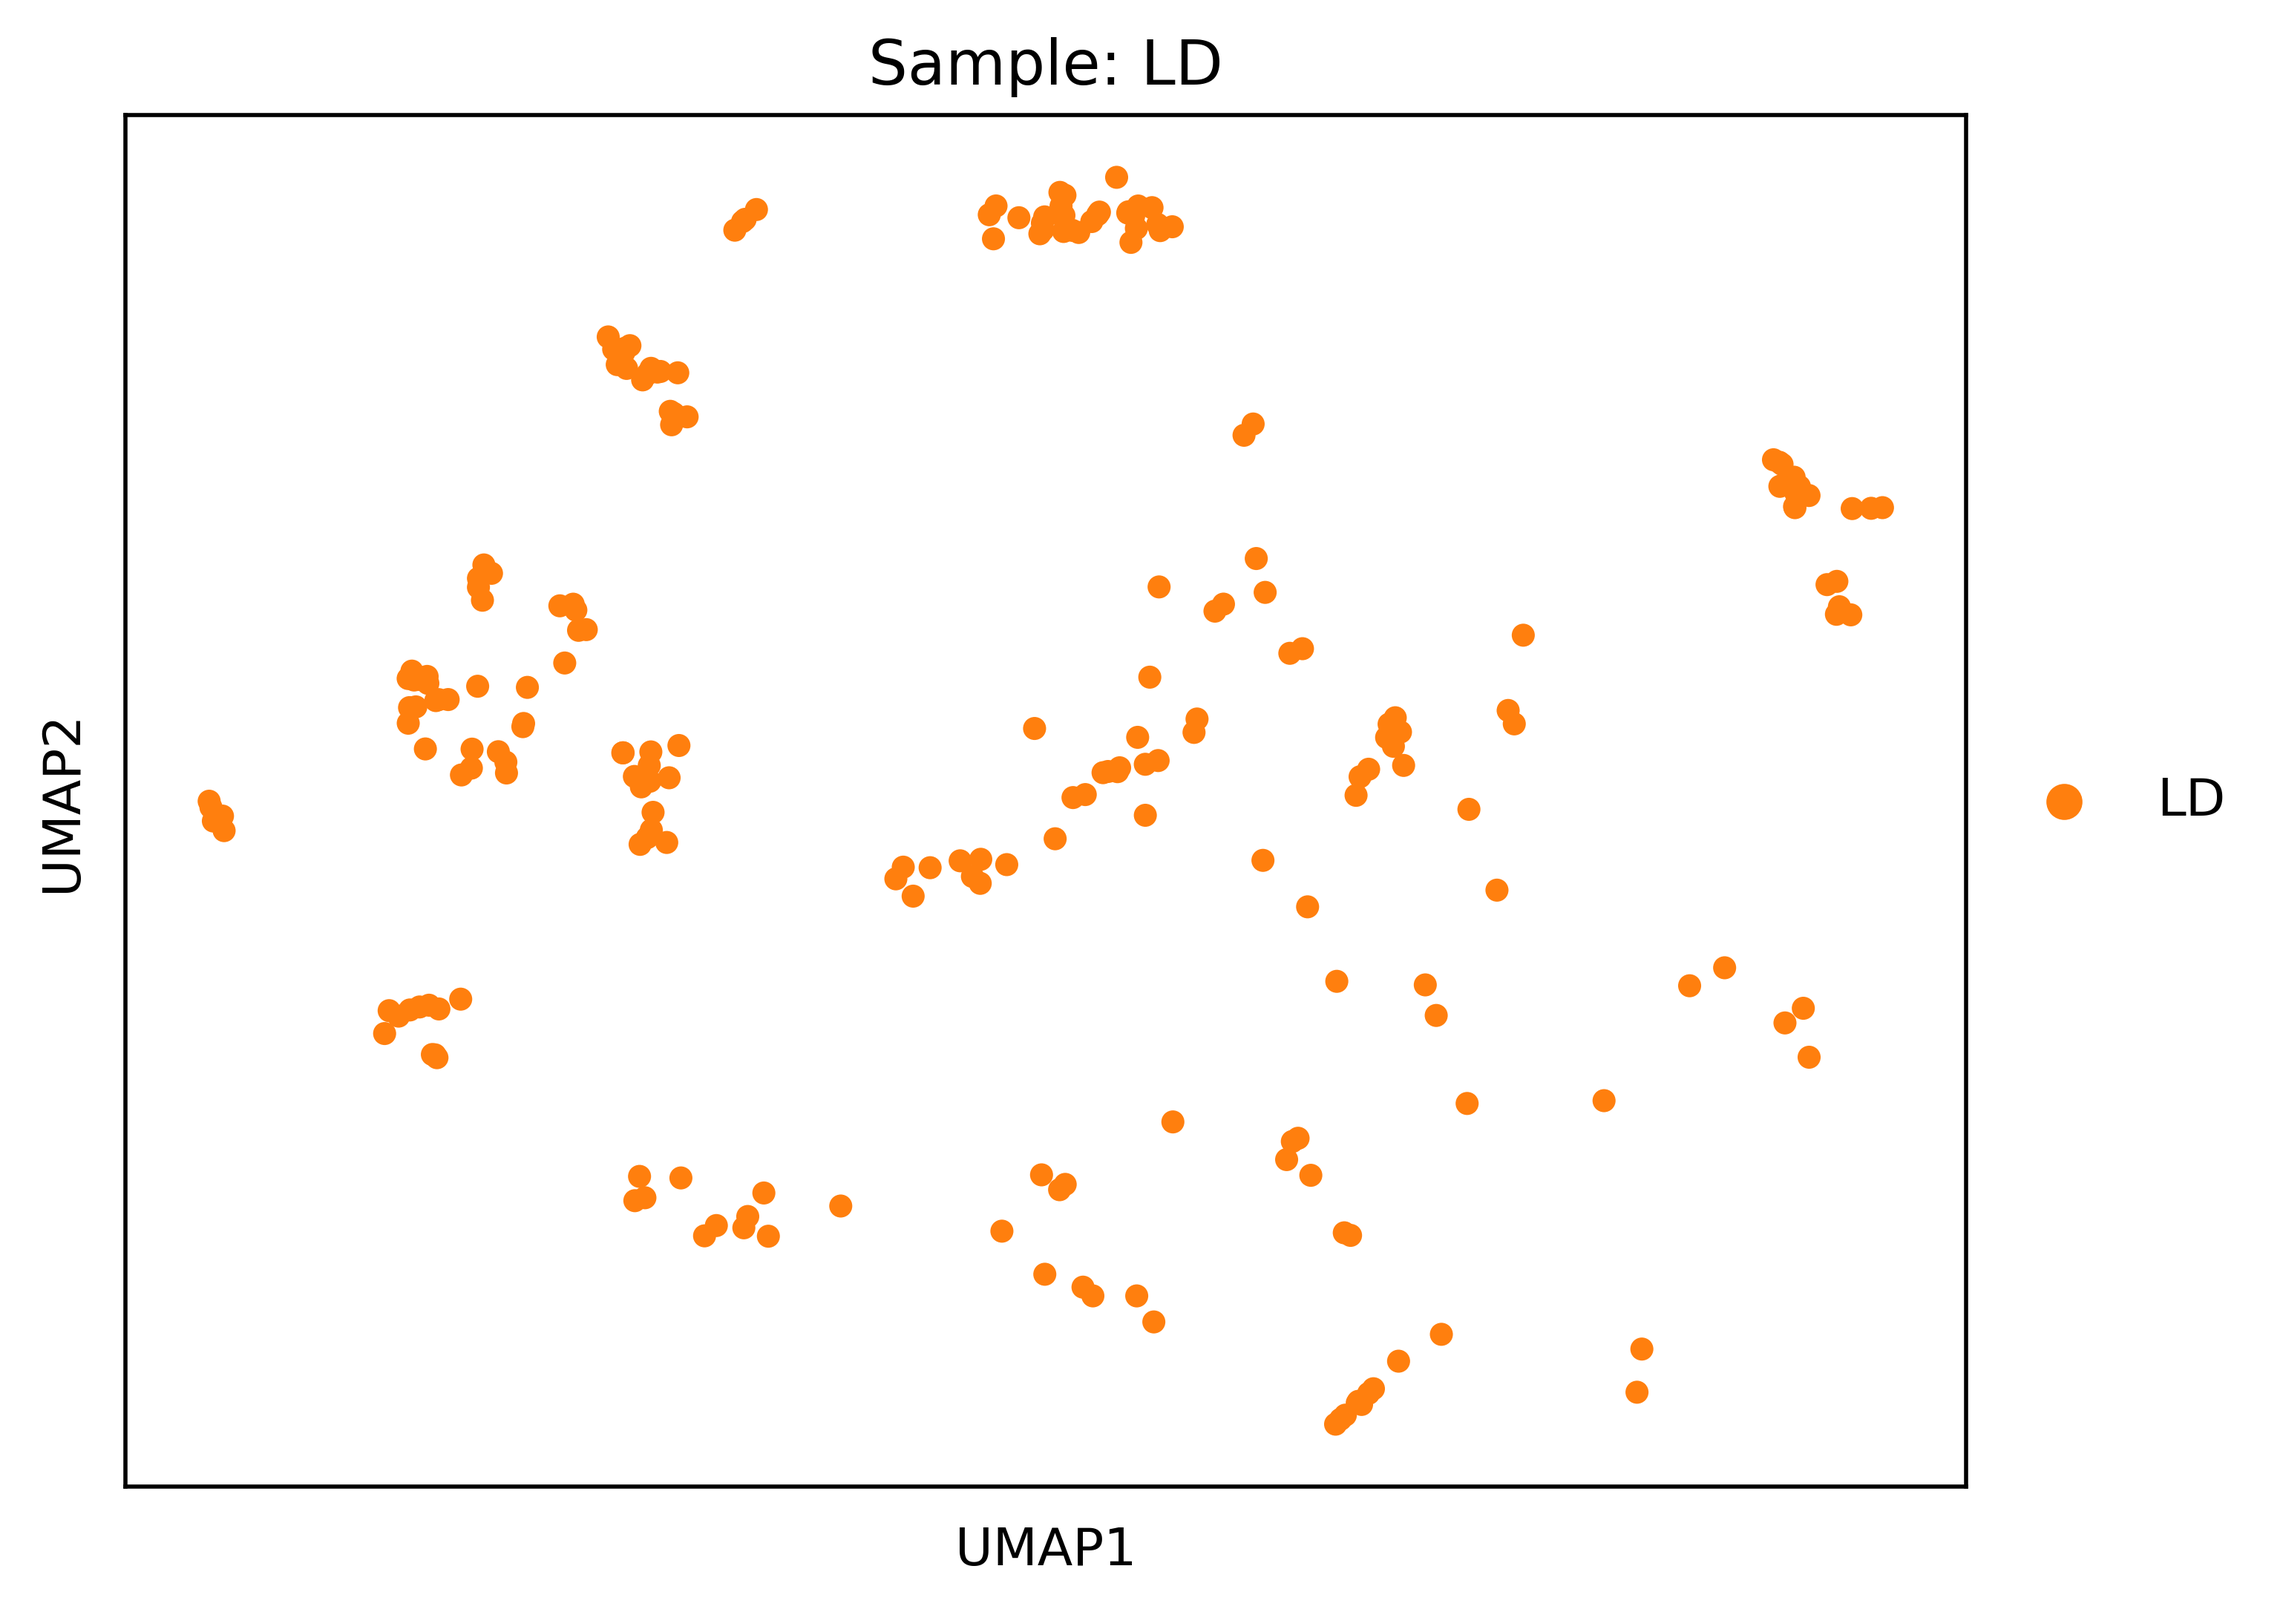
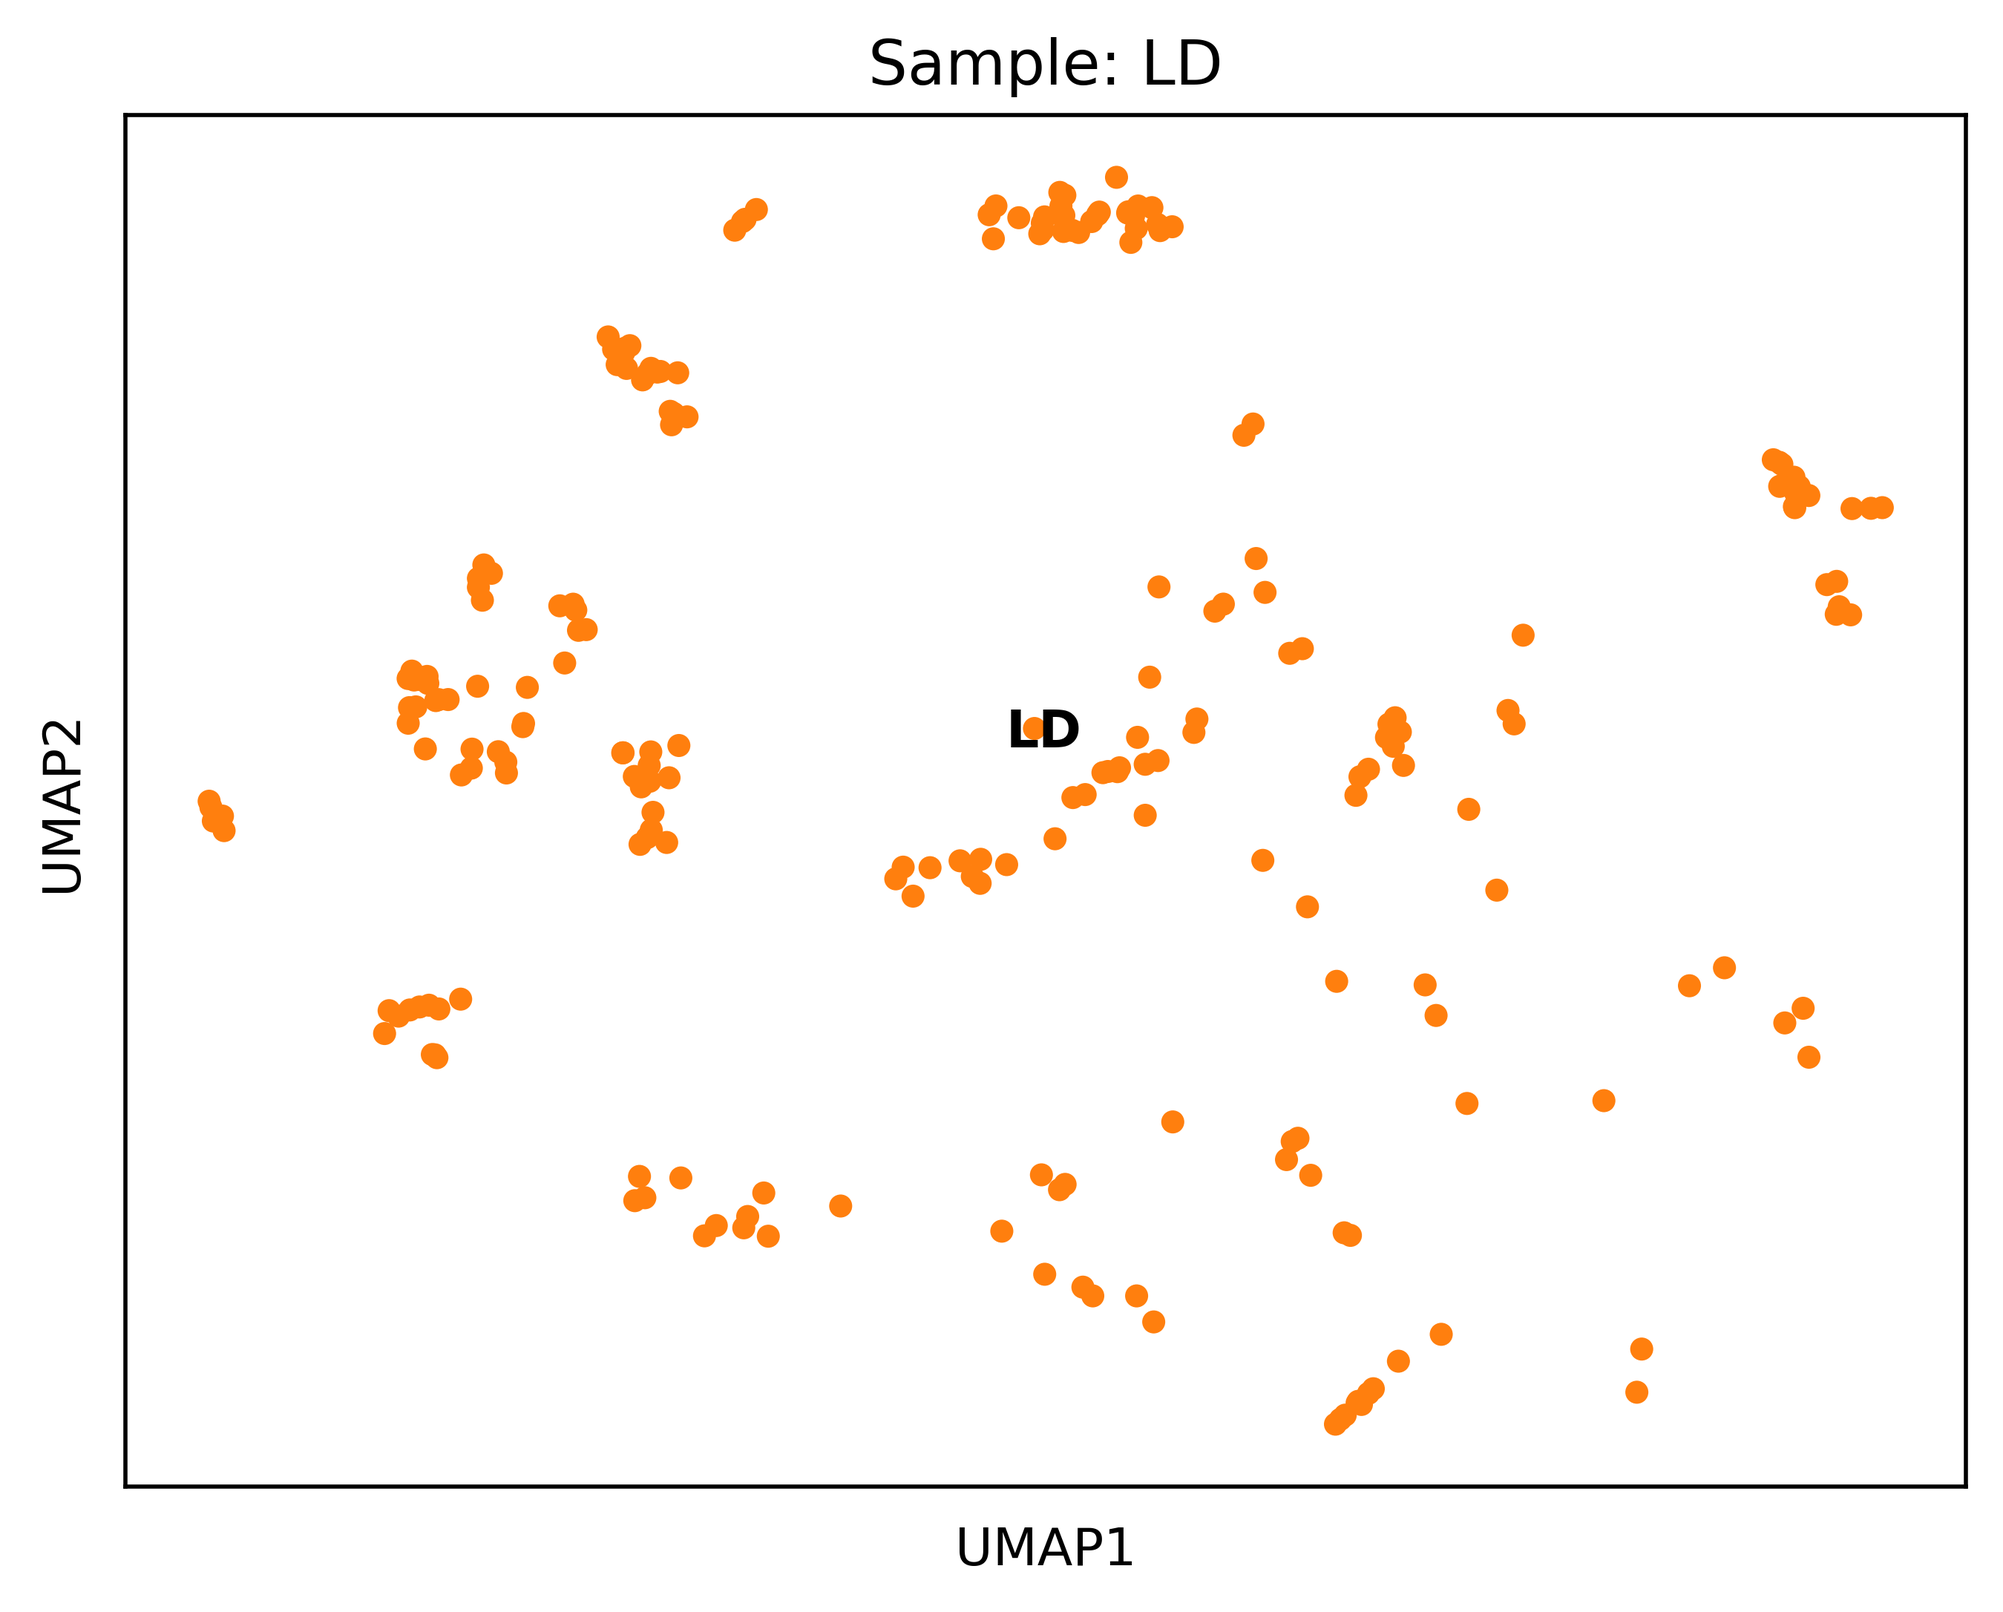
Update no leiden

diff --git a/plotAC.py b/plotAC.py
@@ -70,7 +70,7 @@ def main():
             sample_adata,
             color='renamed_samples',
             title=f'Sample: {sample}',
-            size=80,
+            size=80,legend_loc='on data',
             show=False,
             return_fig=True
         )

diff --git a/README.md b/README.md
@@ -282,9 +282,9 @@ The following UMAP plots illustrate the clustering of subtypes within each major
 <img src="figures/umapAC_combined_leiden.png?v=5" width="70%">
 
 <div style="display: flex; gap: 10px;">
-  <img src="figures/AC_Control_no_leiden.png?v=5" width="30%">
-  <img src="figures/AC_LD_no_leiden.png?v=5" width="30%">
-  <img src="figures/AC_NMDA_no_leiden.png?v=5" width="30%">
+  <img src="figures/AC_Control_no_leiden.png?v=6" width="30%">
+  <img src="figures/AC_LD_no_leiden.png?v=6" width="30%">
+  <img src="figures/AC_NMDA_no_leiden.png?v=6" width="30%">
 </div>
 
 
